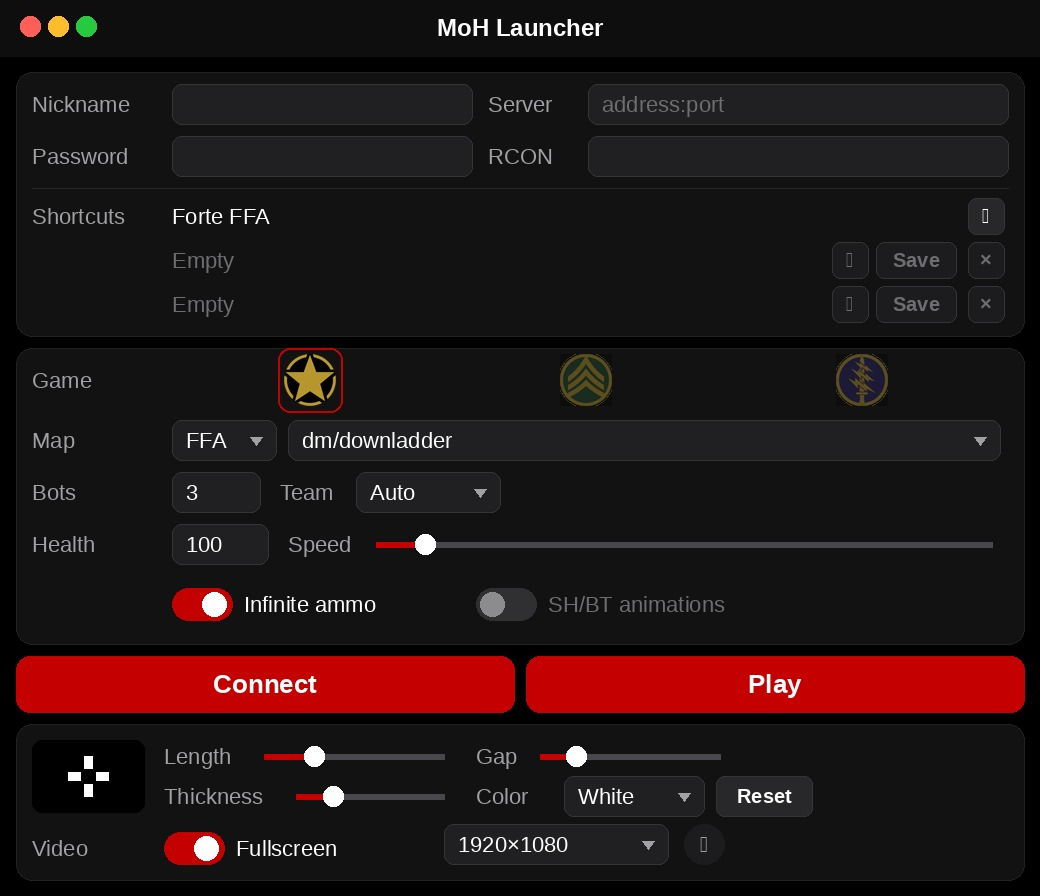
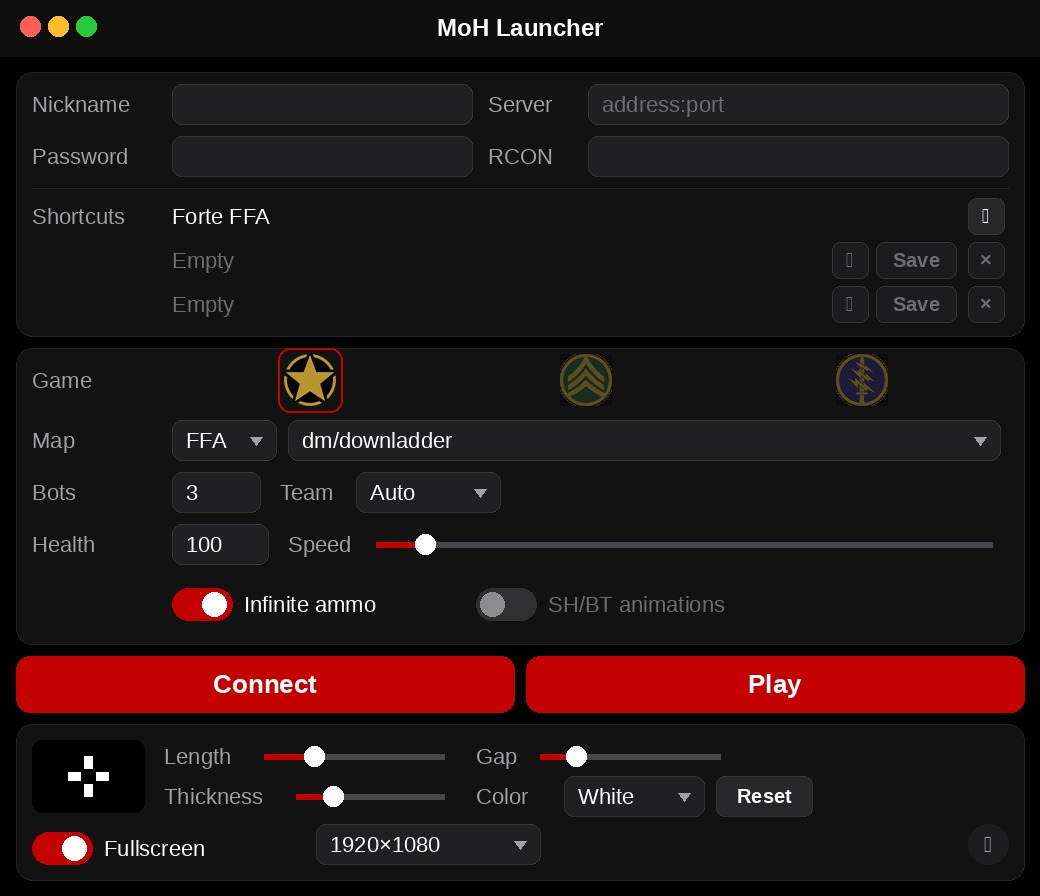
Keep the speed knob still and clear the video row
The speed scale is the same for every game, so the knob only moves when
the number changes. The video and resolution labels are gone, and the
file check sits in the bottom-right corner.

Changed region(s): [[0.0308, 0.9062, 0.5538, 0.9688], [0.6154, 0.9375, 0.6462, 0.9688]]

diff --git a/Launcher.swift b/Launcher.swift
@@ -102,10 +102,11 @@ struct Config: Equatable {
         game == 0 ? 250 : 287
     }
 
-    /// Allied Assault servers turn an sv_runspeed of 287 back into 250 while
-    /// sprint is off, so it stops one short of that.
+    /// The same scale for every game, so the knob stays put when the number
+    /// does not change. Allied Assault servers turn 287 back into 250.
     static func runSpeeds(for game: Int) -> ClosedRange<Int> {
-        game == 0 ? 250...286 : 250...287
+        _ = game
+        return 250...287
     }
 
     /// One of the named crosshair colors, or white.
@@ -715,12 +716,13 @@ struct LauncherView: View {
         }
         .help("Crosshair sizes are in pixels at 1080p and scale with the resolution.")
         HStack(spacing: 8) {
-            Text("Video").foregroundStyle(.secondary).frame(width: labelWidth, alignment: .trailing)
             Toggle("Fullscreen", isOn: $config.fullscreen)
-            Picker("Resolution", selection: $config.resolution) {
+            Picker("", selection: $config.resolution) {
                 ForEach(resolutions, id: \.self) { Text($0).tag($0) }
             }
+            .labelsHidden()
             .fixedSize()
+            Spacer(minLength: 0)
             verifyButton
         }
     }

diff --git a/README.md b/README.md
@@ -2,7 +2,7 @@
 
 MoH Launcher for MoHAA. The window is black, with red controls.
 
-![Launcher](preview.jpg?v=8)
+![Launcher](preview.jpg?v=9)
 
 Connect opens `openmohaa.app`. Play opens `mohbots.app`. The first shortcut is Forte FFA and cannot be changed.
 
